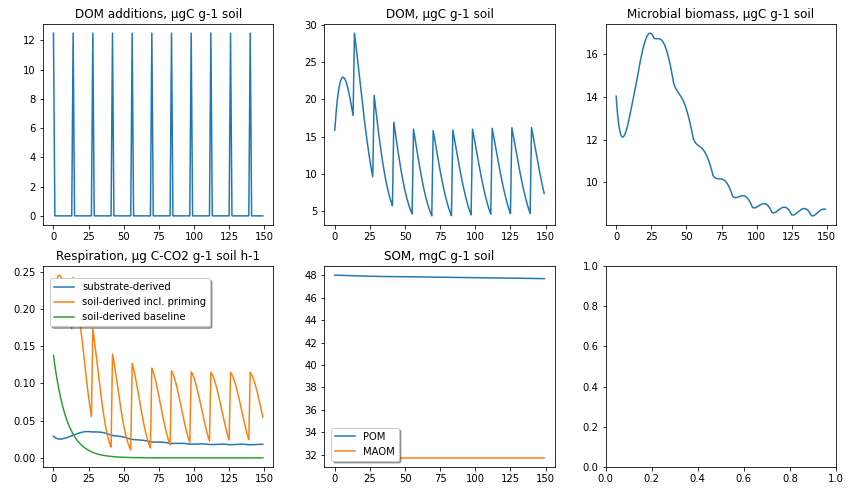
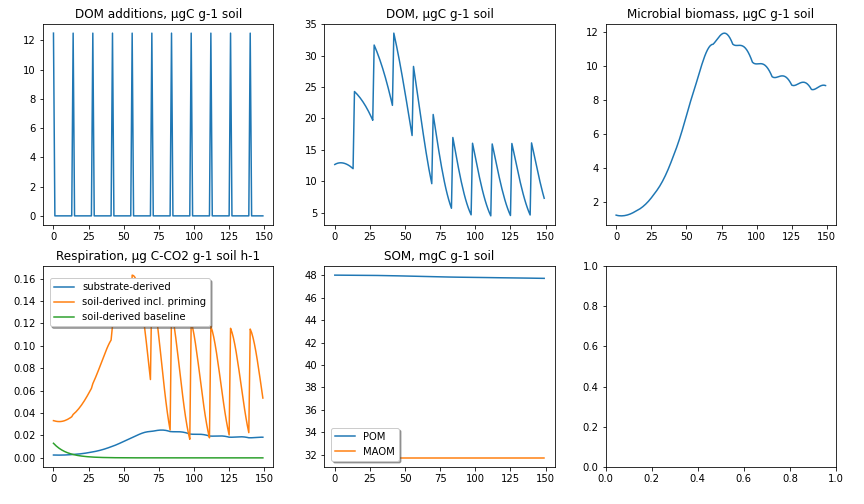
updated initial bacteria and fungi values
based on new data of Veronika from September 2023

diff --git a/potPrimingMAOM.py b/potPrimingMAOM.py
@@ -26,7 +26,7 @@ outRespSoil=[]
 outRespSoilBaseline=[]
 #variables 
 DOM_RS=0  # rhizosphere DOM [gC/m3]
-bact_RS=61*0.2 #bacterial biomass [gC/m3], noadd average from Jílková2022, was 2.4, *0.2 because most was li-ving on SOM, only 20% on new C
+bact_RS=5*0.2 #bacterial biomass [gC/m3], final noadd average from Jílková2022, was 61, *0.2 because most was li-ving on SOM, only 20% on new DOM
 CN_DOM_RSinput=80  #CN of the daily input [unitless], Jílková2022: leachates 80, exudates 6, was 50
 MAOMsaturation=0.9 #proportion of MAOM capacity filled [unitless], based on MAOM content from Jílková2022, was 0.5
 maxMAOM=  28208 #MAOM capacity [gC/m3] based on silt+clay from Jílková2022 and Georgiou et al. 2022, was 100
@@ -66,8 +66,8 @@ CN_DOM_RS=CN_DOM_RSinput # set inital DOM CN equal to input
 POM=POMini
 MAOM=MAOMini
 DOM_N=DOM_RS/CN_DOM_RS
-bact=61 * 0.8 #80% of my bacteria are doing the baseline
-fungi=4
+bact=5 * 0.8 #80% of my bacteria are doing the baseline decomposition
+fungi=1
 KSfungi=20000  # for decaying SOM
 KSbact=38000 #for decaying SOM
 PV=np.array([45,37,37,200,6]) 
